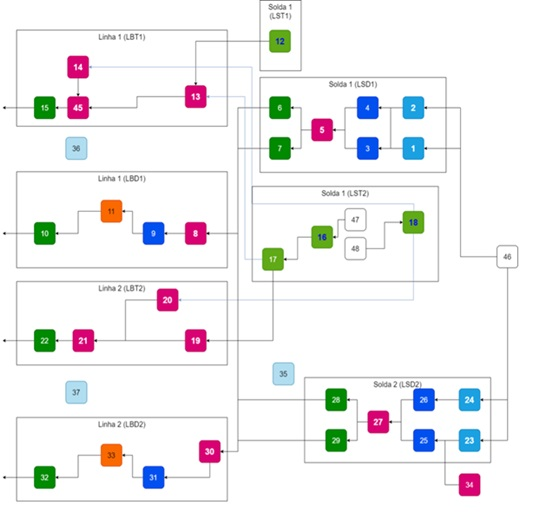
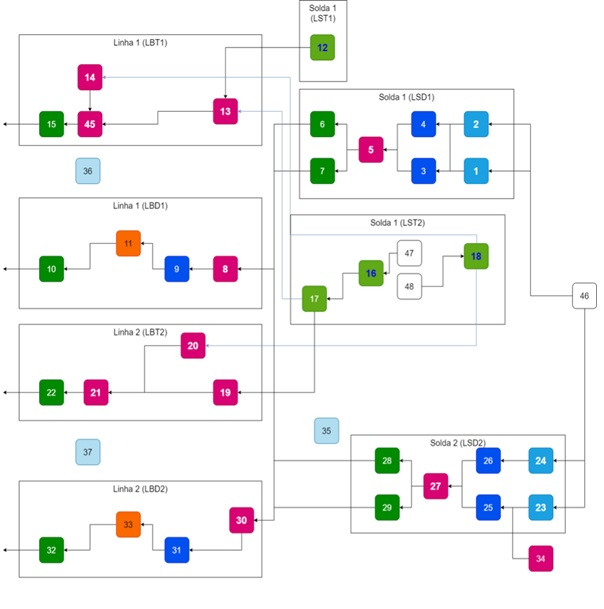
Workflow

Changed region(s): [[0.0, 0.0, 0.9906, 0.9865]]

diff --git a/index.html b/index.html
@@ -11,40 +11,44 @@
   <title>Docsify Demo</title>
 </head>
 
+
 <body>
   <div id="app"></div>
   <script>
     window.$docsify = {
       homepage: "Pages/home.md",
       loadSidebar: true,
-      loadSidebar:"components/sidebar.md",
-      routermode:"history",
+      loadSidebar: "components/sidebar.md",
+      routermode: "history",
       name: "<span>SQOLean e Multilogin</span>",
       nameLink: "/",
       auto2top: true,
-      pagination:{
-        previousText : "Anterior",
+      pagination: {
+        previousText: "Anterior",
         nextText: "Próximo",
-        crossChapter:false,
+        crossChapter: false,
         crossChapterText: false,
       },
-      search:{
+      search: {
         maxAge: 86400000,
         paths: "auto",
         plaholder: "Digite aqui para pesquisar...",
         noData: "Nenhum resultado encotrado",
         hideOtherSiderBarContent: false,
       },
-        tabs: {
-          theme: "material",
-        },
-        alias: {
-      '/.*/_sidebar.md': '/_sidebar.md'
+      tabs: {
+        theme: "material",
+      },
+      alias: {
+        '/.*/_sidebar.md': '/_sidebar.md'
       },
 
       el: "#app",
       repo: 'https://theronniesouza.github.io/DocsifyDemo/#/',
+
+
     }
+
 
   </script>
   <script src="//cdn.jsdelivr.net/npm/docsify/lib/docsify.min.js"></script>
@@ -55,4 +59,5 @@
   <script src=”//cdn.jsdelivr.net/npm/prismjs@1/components/prism-bash.min.js”></script>
   <script src=”//cdn.jsdelivr.net/npm/prismjs@1/components/prism-php.min.js”></script>
 </body>
+
 </html>

diff --git a/2.OverviewSQOLean/2.1.MapaDasLinhas/2.1.3.Workflow.md b/2.OverviewSQOLean/2.1.MapaDasLinhas/2.1.3.Workflow.md
@@ -1,0 +1,39 @@
+# Estações
+<link rel="stylesheet" href="Docs/custom.css">
+
+Cada linha de montagem tem o seu Workflow, Workflow nada mais é do que o a trajetória que o produto faz na linha desde seu nascimento, na primeira estação até o final da linha onde o produto já está pronto ou semipronto, por exemplo caso ele seja uma produto do tipo “Frame” ele chega no final da sua linha de montagem e entra em uma nova linha montagem onde ele sai como um banco para envio ao cliente, aqui vamos abordar o Workflow das linhas de Solda, Bancos e Portas.
+<br> <br> <br>
+ **•    Soldas e Bancos:** Cada linha de montagem possui um Workflow exclusivo, que consiste no caminho percorrido pelo produto desde sua primeira estação até o final da linha, onde ele é finalizado ou está semipronto. Por exemplo, se o produto for do tipo "Frame", ele será encaminhado para outra linha de montagem para ser transformado em um banco e enviado ao cliente. Neste manual, vamos explorar os Workflows das linhas de Solda, Bancos e Portas.
+ <br>
+
+
+| Cor | Descrição |
+| :---: | :--- |
+| <div style="text-align:left"><img src="./images/2.quadrado_rosa.jpg"></div> | Representa estações onde acontece a geração de novos códigos de rastreabilidade |
+| <div style="text-align:left"><img src="./images/3.quadrado_verde.jpg"></div> | Representa as estações finais onde a peça da linha se torna o produto final, pronta para ir para nova linha ou para o cliente final. |
+| <div style="text-align:left"><img src="./images/4.quadrado_azul_marinho.jpg"></div> | Representa as estações de retrabalho. |
+
+<br><br>
+As demais cores são estações de trabalho intermediarias, onde são realizados alguns trabalhos como por exemplo o parafusamento de algum componente.
+
+<div style="text-align:left"><img src="./images/workflow da linha de bancos e soldas dianterio.png"></div>
+
+<br>
+Às vezes, durante o processo de produção, uma peça pode apresentar um status NG (Não Conforme), o que indica que ela não atende aos padrões de qualidade estabelecidos. Nesses casos, a peça é enviada para a estação de retrabalho correspondente e, após o retrabalho, retorna para a linha de produção no posto de origem. Para ilustrar essa situação, consideremos o exemplo de uma peça que reprovou no posto 27 e foi enviada para a estação de retrabalho 35 antes de retornar para a linha de produção no posto 27.
+<br><br>
+<div style="text-align:center"><img src="./images/5.Work flow de uma peça NG 1.jpg"></div>
+
+
+**• Estações gêmeas –** Algumas estações em nossas linhas de montagem possuem configurações chamadas de "estações gêmeas", que realizam exatamente a mesma operação, porém em diferentes linhas. Na tabela abaixo é possível identificar as estações que possuem essa configuração.
+<br><br><br>
+Linha de montagem de solda dianteiro:
+<div style="text-align:center"><img src="./images/6.estacaoesGemeas.jpg"></div>
+
+Linha de montagem de Bancos dianteiros: 
+<div style="text-align:center"><img src="./images/6.estacaoesGemeas1.jpg"></div>
+
+Linha de montagem de Bancos traseiros:
+<div style="text-align:center"><img src="./images/7.estacaoesGemeas3.jpg"></div>
+
+**• Portas** - A linha de portas segue um processo mais curto, porém mantém as mesmas características das outras linhas, incluindo processos de retrabalho e estações gêmeas. Abaixo, listamos as estações gêmeas presentes na linha de portas:    
+<div style="text-align:center"><img src="./images/7.estacaoesGemeas4.jpg"></div>

diff --git a/2.OverviewSQOLean/2.1.MapaDasLinhas/2.1.2.Estacoes.md b/2.OverviewSQOLean/2.1.MapaDasLinhas/2.1.2.Estacoes.md
@@ -1,0 +1,23 @@
+# Estações
+<link rel="stylesheet" href="Docs/custom.css">
+
+Na Ts Tech, atualmente temos 5 tipos de templates de estações em funcionamento, cada um com sua própria lógica de funcionamento. São eles:
+<br> <br> <br>
+ **•	Estação padrão –** O início do sequenciamento de regras é dado pela leitura de alguma peça na estação.
+ <br>
+**•	Estação padrão com seleção de OP –** Esses postos são geralmente os primeiros da sequência de fluxo de trabalho e  permitem que o usuário escolha quais ordens de produção serão produzidas. O início do ciclo é dado pela leitura de alguma peça na estação, podendo ser um código de barras ou QR code.
+<br>
+**•	Estação com supervisórios com seleção de OP –** Nesse tipo de estação, o robô manipula o início do ciclo através da integração com o supervisório e o SQOLean. Também poderão ser selecionadas as OPs a produzir.
+<br>
+**•	Estação com sensor com seleção de OP –** As estações com sensores iniciam o ciclo quando detectam alguma informação no sensor, como a presença de peça. Também poderão ser selecionadas as OPs a produzir.
+<br>
+**•	Estação retrabalho –** Com esse recurso, os operadores podem retrabalhar peças que não atendem às especificações de qualidade (NG), registrando o defeito encontrado, sua posição e outras informações relevantes, como histórico e observações. Além disso, é possível enviar a peça retrabalhada para a estação de destino apropriada.
+<br><br><br>
+Lista das estações e seus templates:
+
+
+
+ <div style="text-align:center"><img src="./images/estacao_descricao.jpg"></div>
+<div style="text-align:center"><img src="./images/estacao_descricao2.jpg"></div>
+<div style="text-align:center"><img src="./images/estacao_descricao3.jpg"></div>
+<div style="text-align:center"><img src="./images/estacao_descricao4.jpg"></div>

diff --git a/components/sidebar.md b/components/sidebar.md
@@ -6,7 +6,11 @@
 
 * [1.ControleDoDocumento](./ControleDoDocumento/controleDoDocumento_Index.md) 
 * [2.OverviewSqoLean](./2.OverviewSQOLean/overviewSQOLean.md)
-* -  [2.1MapaDasLinhas](./2.OverviewSQOLean/2.1.MapaDasLinhas/2.1.mapaDasLinhas.md)
+* -  [2.1 MapaDasLinhas](./2.OverviewSQOLean/2.1.MapaDasLinhas/2.1.mapaDasLinhas.md)
+* - [2.1.1 Linhas](./2.OverviewSQOLean/2.1.MapaDasLinhas/2.1.1.Linhas.md)
+* - [2.1.2 Estações](./2.OverviewSQOLean/2.1.MapaDasLinhas/2.1.2.Estacoes.md)
+* - [2.1.3 Workflow](./2.OverviewSQOLean/2.1.MapaDasLinhas/2.1.3.Workflow.md)
+<!-- Este é um comentário que não será exibido no arquivo final 
 * [Tutorials](./tutorials/index)
   * [Tomcat](./tutorials/tomcat/index)
   * [Cloud](./tutorials/cloud/index)
@@ -15,4 +19,5 @@
 * [About](./about/index)
 
 * [Contact](./contact/index)
+-->
 

diff --git a/2.OverviewSQOLean/2.1.MapaDasLinhas/2.1.mapaDasLinhas.md b/2.OverviewSQOLean/2.1.MapaDasLinhas/2.1.mapaDasLinhas.md
@@ -1,5 +1,10 @@
-# Mapa das Linhas
+# Mapa das Estações
 <link rel="stylesheet" href="Docs/custom.css">
 Mapa geral das estações.
+<br>
  - 	Bancos e Soldas:
  <div style="text-align:center"><img src="./images/linha_banco_solda_completa.jpg"></div>
+
+ <br>
+  - 	Portas:
+  <div style="text-align:center"><img src="./images/linha_portas_completa.jpg"></div>

diff --git a/2.OverviewSQOLean/2.1.MapaDasLinhas/2.1.1.Linhas.md b/2.OverviewSQOLean/2.1.MapaDasLinhas/2.1.1.Linhas.md
@@ -1,0 +1,6 @@
+# Linhas
+<link rel="stylesheet" href="Docs/custom.css">
+Atualmente a Ts Tech utiliza o SQOLean em 10 linhas de montagem, são elas:
+<br><br><br><br>
+ 
+ <div style="text-align:center"><img src="./images/linha_descricao.jpg"></div>
